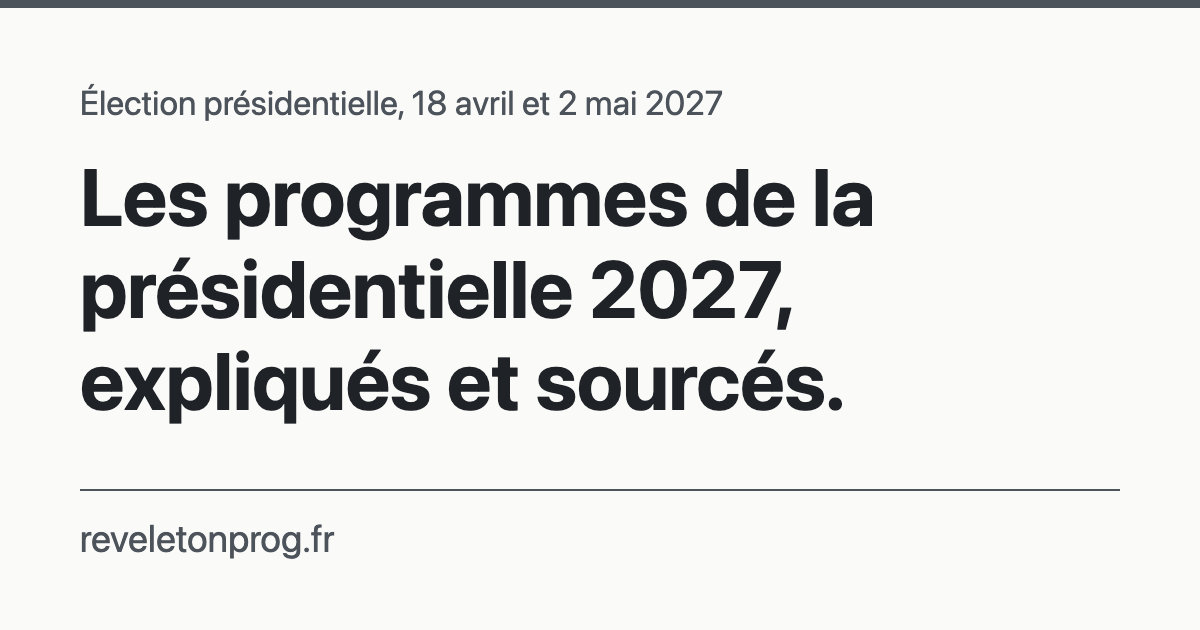
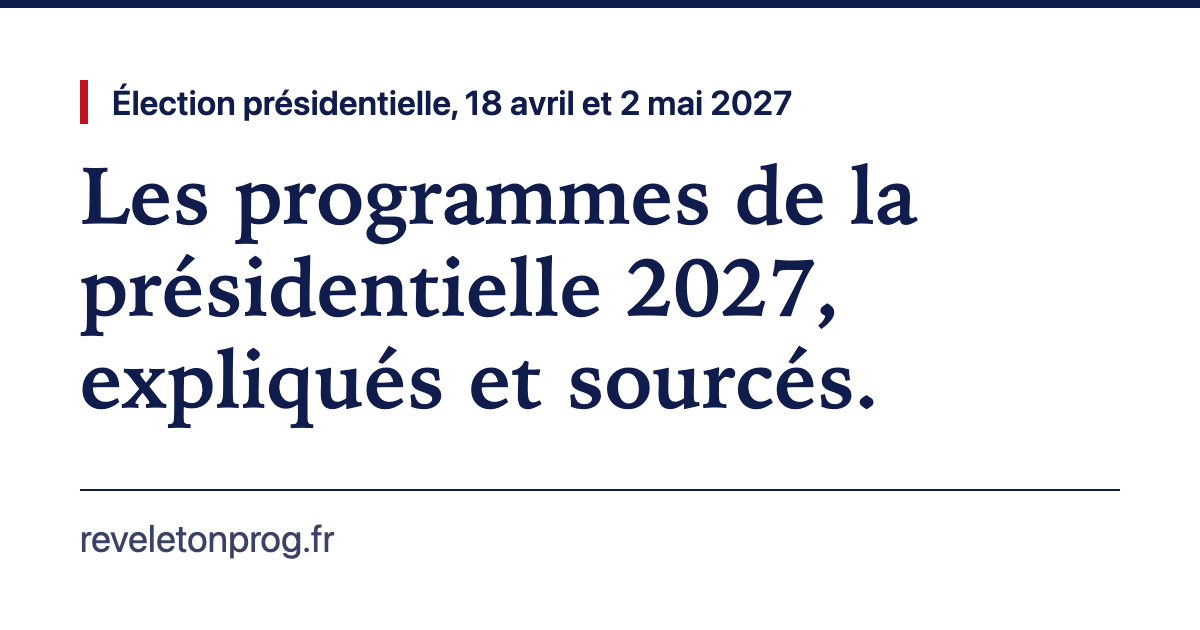
feat(10.4-01): image de partage aux couleurs de la charte D, jetons lus dans base.css
- jetonsCharte() lit --fond, --nuit, --encre-douce, --rouge, --police-titres et refuse un jeton absent ou invalide
- plus aucune couleur dans partage.ts ni partage.html, image régénérée (58998 puis 73069 octets)

diff --git a/scripts/partage.ts b/scripts/partage.ts
@@ -1,12 +1,12 @@
 // Image de partage (proposition 6 du lot B, D-04) : public/partage.png, 1200 x 630, copiée telle quelle à la racine du
 // dist par Astro. Capture par le Chromium de @playwright/test (déjà une dépendance de développement, aucune autre)
-// de scripts/partage.html, remplie avec la phrase de src/lib/partage.ts, le domaine de config/site.yml et les
-// couleurs de la charte v1 (fond, encre, encre douce), figées ici pour que changer la charte du site ne rende pas
-// l'image périmée (la régénérer aux couleurs de la charte D est la proposition P-10, hors de la phase 10.2) : jamais
-// une couleur de thème ni de parti, polices du système. L'image ne contient pas le nom du site, donc elle ne dépend pas du nom affiché.
+// de scripts/partage.html, remplie avec la phrase de src/lib/partage.ts, le domaine de config/site.yml et les jetons
+// de la charte D lus dans src/styles/base.css (--fond, --nuit, --encre-douce, --rouge, --police-titres) : aucune
+// couleur n'est écrite ici ni dans le gabarit, jamais une couleur de thème ni de parti. L'image ne contient pas le
+// nom du site, donc elle ne dépend pas du nom affiché.
 //
 // Le fichier n'est PAS identique octet pour octet d'une machine à l'autre (rendu des polices du système) : le fichier
-// versionné est la référence, régénéré seulement quand le texte, le domaine ou les couleurs changent. Pour que
+// versionné est la référence, régénéré quand le texte, le domaine ou ces jetons changent. Pour que
 // « --check » reste fiable sans navigateur ni police (la CI ne lance pas Chromium), le PNG porte un morceau tEXt
 // « Source » avec l'empreinte SHA-256 du HTML rempli ; --check compare cette empreinte, la signature, les dimensions
 // 1200 x 630 et le poids (LIMITES.partage), jamais les pixels. Aucun horodatage dans le PNG.
@@ -31,17 +31,46 @@ const CLE_SOURCE = 'Source';
 
 const echapper = (s: string): string => s.replace(/&/g, '&amp;').replace(/</g, '&lt;').replace(/>/g, '&gt;').replace(/"/g, '&quot;');
 
-export const COULEUR_FOND_PARTAGE = '#FAFAF8';
-export const COULEUR_ENCRE_PARTAGE = '#1F2328';
-export const COULEUR_ENCRE_DOUCE_PARTAGE = '#4D535B';
+const CSS_BASE = path.join(RACINE_DEPOT, 'src/styles/base.css');
 
-/** HTML de la page de capture, repères remplis : phrase, domaine (config/site.yml) et couleurs figées de la charte v1. */
+const JETONS = [
+  ['FOND', '--fond', 'couleur'],
+  ['NUIT', '--nuit', 'couleur'],
+  ['ENCRE_DOUCE', '--encre-douce', 'couleur'],
+  ['ROUGE', '--rouge', 'couleur'],
+  ['POLICE_TITRES', '--police-titres', 'police'],
+] as const;
+
+/**
+ * Valeurs des jetons de la charte dans le premier bloc :root de base.css. Un jeton absent ou invalide est refusé :
+ * la valeur est insérée telle quelle dans le <style> du gabarit, sans échappement, donc jamais de < { } ni ;.
+ */
+export function jetonsCharte(css: string = fs.readFileSync(CSS_BASE, 'utf8')): {
+  FOND: string;
+  NUIT: string;
+  ENCRE_DOUCE: string;
+  ROUGE: string;
+  POLICE_TITRES: string;
+} {
+  const sansCommentaires = css.replace(/\/\*[\s\S]*?\*\//g, '');
+  const racine = /:root\s*\{([^}]*)\}/.exec(sansCommentaires)?.[1] ?? '';
+  const out: Record<string, string> = {};
+  for (const [cle, nom, genre] of JETONS) {
+    const m = new RegExp(`(?:^|[\\s{;])${nom}\\s*:\\s*([^;]+);`).exec(racine);
+    if (m === null) throw new Error(`partage : jeton ${nom} introuvable dans src/styles/base.css`);
+    const valeur = m[1]!.trim();
+    const valide = genre === 'couleur' ? /^#[0-9A-Fa-f]{6}$/.test(valeur) : /^[A-Za-z0-9 ",-]+$/.test(valeur);
+    if (!valide) throw new Error(`partage : jeton ${nom} invalide dans src/styles/base.css : ${JSON.stringify(valeur)}`);
+    out[cle] = valeur;
+  }
+  return out as ReturnType<typeof jetonsCharte>;
+}
+
+/** HTML de la page de capture, repères remplis : phrase, domaine (config/site.yml) et jetons de la charte D. */
 export function htmlRempli(): string {
   const domaine = loadSiteConfig(RACINE_DEPOT, {}).domaine;
   const valeurs: Record<string, string> = {
-    FOND: COULEUR_FOND_PARTAGE,
-    ENCRE: COULEUR_ENCRE_PARTAGE,
-    ENCRE_DOUCE: COULEUR_ENCRE_DOUCE_PARTAGE,
+    ...jetonsCharte(),
     REPERE: echapper(REPERE_PARTAGE),
     PROMESSE: echapper(PROMESSE_PARTAGE),
     DOMAINE: echapper(domaine),
@@ -133,6 +162,15 @@ const USAGE = `Usage : node scripts/partage.ts [--check] [--sortie <fichier>]
 `;
 
 async function main(): Promise<void> {
+  try {
+    await executer();
+  } catch (e) {
+    process.stderr.write(`${e instanceof Error ? e.message : String(e)}\n`);
+    process.exit(1);
+  }
+}
+
+async function executer(): Promise<void> {
   let valeurs: { check?: boolean; sortie?: string };
   try {
     ({ values: valeurs } = parseArgs({

diff --git a/tests/scripts/partage.test.ts b/tests/scripts/partage.test.ts
@@ -10,9 +10,10 @@ import path from 'node:path';
 import { fileURLToPath } from 'node:url';
 import { LIMITES } from '../../scripts/lib/check-dist.ts';
 import { analyserHtml, texte, trouver } from '../../scripts/lib/html.ts';
-import { ajouterTexte, empreinteSource, htmlRempli, lireDimensions, lireTexte, problemesImage } from '../../scripts/partage.ts';
+import { ajouterTexte, empreinteSource, htmlRempli, jetonsCharte, lireDimensions, lireTexte, problemesImage } from '../../scripts/partage.ts';
 import { motsInterdits } from '../../src/lib/content-core/rules/text/forbidden.ts';
 import { ALT_PARTAGE, HAUTEUR_PARTAGE, LARGEUR_PARTAGE, PROMESSE_PARTAGE, REPERE_PARTAGE } from '../../src/lib/partage.ts';
+import { libellesTours } from '../../src/lib/dates-tours.ts';
 import { loadSiteConfig } from '../../src/lib/site-config.ts';
 
 const ROOT = path.resolve(path.dirname(fileURLToPath(import.meta.url)), '..', '..');
@@ -112,8 +113,58 @@ describe('scripts/partage.html', () => {
     assert.equal(ALT_PARTAGE, PROMESSE_PARTAGE);
   });
 
-  it('n\'emploie que les couleurs figées de l\'image (charte v1), aucune couleur écrite en dur dans partage.html', () => {
+  const base = fs.readFileSync(path.join(ROOT, 'src/styles/base.css'), 'utf8');
+  const racine = /:root\s*\{([^}]*)\}/.exec(base)![1]!;
+  const jeton = (nom: string): string => new RegExp(`${nom}:\\s*([^;]+);`).exec(racine)![1]!.trim();
+
+  it('couleurs lues dans base.css, aucune couleur écrite en dur dans partage.html ni dans partage.ts', () => {
     assert.ok(!/#[0-9a-f]{3,8}\b/i.test(html));
     assert.ok(!/rgb|hsl/i.test(html));
+    assert.ok(!/#[0-9a-f]{3,8}\b/i.test(fs.readFileSync(path.join(ROOT, 'scripts/partage.ts'), 'utf8')));
+    const rempli = htmlRempli();
+    for (const nom of ['--fond', '--nuit', '--encre-douce', '--rouge', '--police-titres']) {
+      assert.ok(rempli.includes(jeton(nom)), `${nom} : ${jeton(nom)}`);
+    }
+  });
+
+  it('chaque couleur, fond, filet ou contour du gabarit est un repère {{ }}', () => {
+    const style = /<style>([\s\S]*?)<\/style>/.exec(html)![1]!;
+    const declarations = [...style.matchAll(/([a-z-]+)\s*:\s*([^;]+);/g)];
+    let controlees = 0;
+    for (const [, prop, valeur] of declarations) {
+      if (/^(color|background|background-color|outline)$/.test(prop!) || prop!.startsWith('border')) {
+        controlees++;
+        assert.match(valeur!, /\{\{[A-Z_]+\}\}/, `${prop}: ${valeur}`);
+      }
+    }
+    assert.ok(controlees >= 5, `${controlees} déclarations contrôlées`);
+    for (const r of ['FOND', 'NUIT', 'ENCRE_DOUCE', 'ROUGE', 'POLICE_TITRES']) assert.ok(html.includes(`{{${r}}}`), r);
+    assert.ok(!html.includes('{{ENCRE}}'));
+  });
+
+  it('le repère de l\'image est calculé depuis TOURS', () => {
+    assert.equal(REPERE_PARTAGE, libellesTours().repere);
+  });
+});
+
+describe('jetonsCharte', () => {
+  it('lit les cinq valeurs de la vraie base.css', () => {
+    const j = jetonsCharte();
+    assert.match(j.FOND, /^#[0-9A-F]{6}$/i);
+    assert.match(j.NUIT, /^#[0-9A-F]{6}$/i);
+    assert.match(j.ENCRE_DOUCE, /^#[0-9A-F]{6}$/i);
+    assert.match(j.ROUGE, /^#[0-9A-F]{6}$/i);
+    assert.ok(j.POLICE_TITRES.includes('serif'));
+  });
+  it('refuse un jeton absent en le nommant', () => {
+    assert.throws(() => jetonsCharte(':root { --fond: #FFFFFF; }'), /--nuit/);
+  });
+  it('refuse une couleur qui n\'est pas #rrggbb', () => {
+    const css = ':root { --fond: #FFFFFF; --nuit: #101C4C; --encre-douce: #3B4263; --rouge: red; --police-titres: serif; }';
+    assert.throws(() => jetonsCharte(css), /--rouge/);
+  });
+  it('refuse une police qui sortirait du style', () => {
+    const css = ':root { --fond: #FFFFFF; --nuit: #101C4C; --encre-douce: #3B4263; --rouge: #C1121F; --police-titres: x</style>; }';
+    assert.throws(() => jetonsCharte(css), /--police-titres/);
   });
 });

diff --git a/scripts/partage.html b/scripts/partage.html
@@ -12,13 +12,13 @@
     position: relative;
     overflow: hidden;
     background: {{FOND}};
-    color: {{ENCRE}};
+    color: {{NUIT}};
     font-family: system-ui, -apple-system, "Segoe UI", Roboto, "Helvetica Neue", Arial, "Noto Sans", sans-serif;
   }
-  .barre { position: absolute; top: 0; left: 0; right: 0; height: 8px; background: {{ENCRE_DOUCE}}; }
-  .repere { position: absolute; top: 80px; left: 80px; right: 80px; margin: 0; font-size: 34px; line-height: 1.3; color: {{ENCRE_DOUCE}}; }
-  .promesse { position: absolute; top: 150px; left: 80px; right: 80px; margin: 0; font-size: 80px; line-height: 1.15; font-weight: 700; }
-  .domaine { position: absolute; bottom: 70px; left: 80px; right: 80px; margin: 0; padding-top: 24px; border-top: 2px solid {{ENCRE_DOUCE}}; font-size: 38px; color: {{ENCRE_DOUCE}}; }
+  .barre { position: absolute; top: 0; left: 0; right: 0; height: 8px; background: {{NUIT}}; }
+  .repere { position: absolute; top: 80px; left: 80px; right: 80px; margin: 0; font-size: 34px; line-height: 1.3; color: {{NUIT}}; font-weight: 600; border-left: 8px solid {{ROUGE}}; padding-left: 24px; }
+  .promesse { position: absolute; top: 150px; left: 80px; right: 80px; margin: 0; font-size: 80px; line-height: 1.15; font-weight: 700; color: {{NUIT}}; font-family: {{POLICE_TITRES}}; }
+  .domaine { position: absolute; bottom: 70px; left: 80px; right: 80px; margin: 0; padding-top: 24px; border-top: 2px solid {{NUIT}}; font-size: 38px; color: {{ENCRE_DOUCE}}; }
 </style>
 </head>
 <body>
